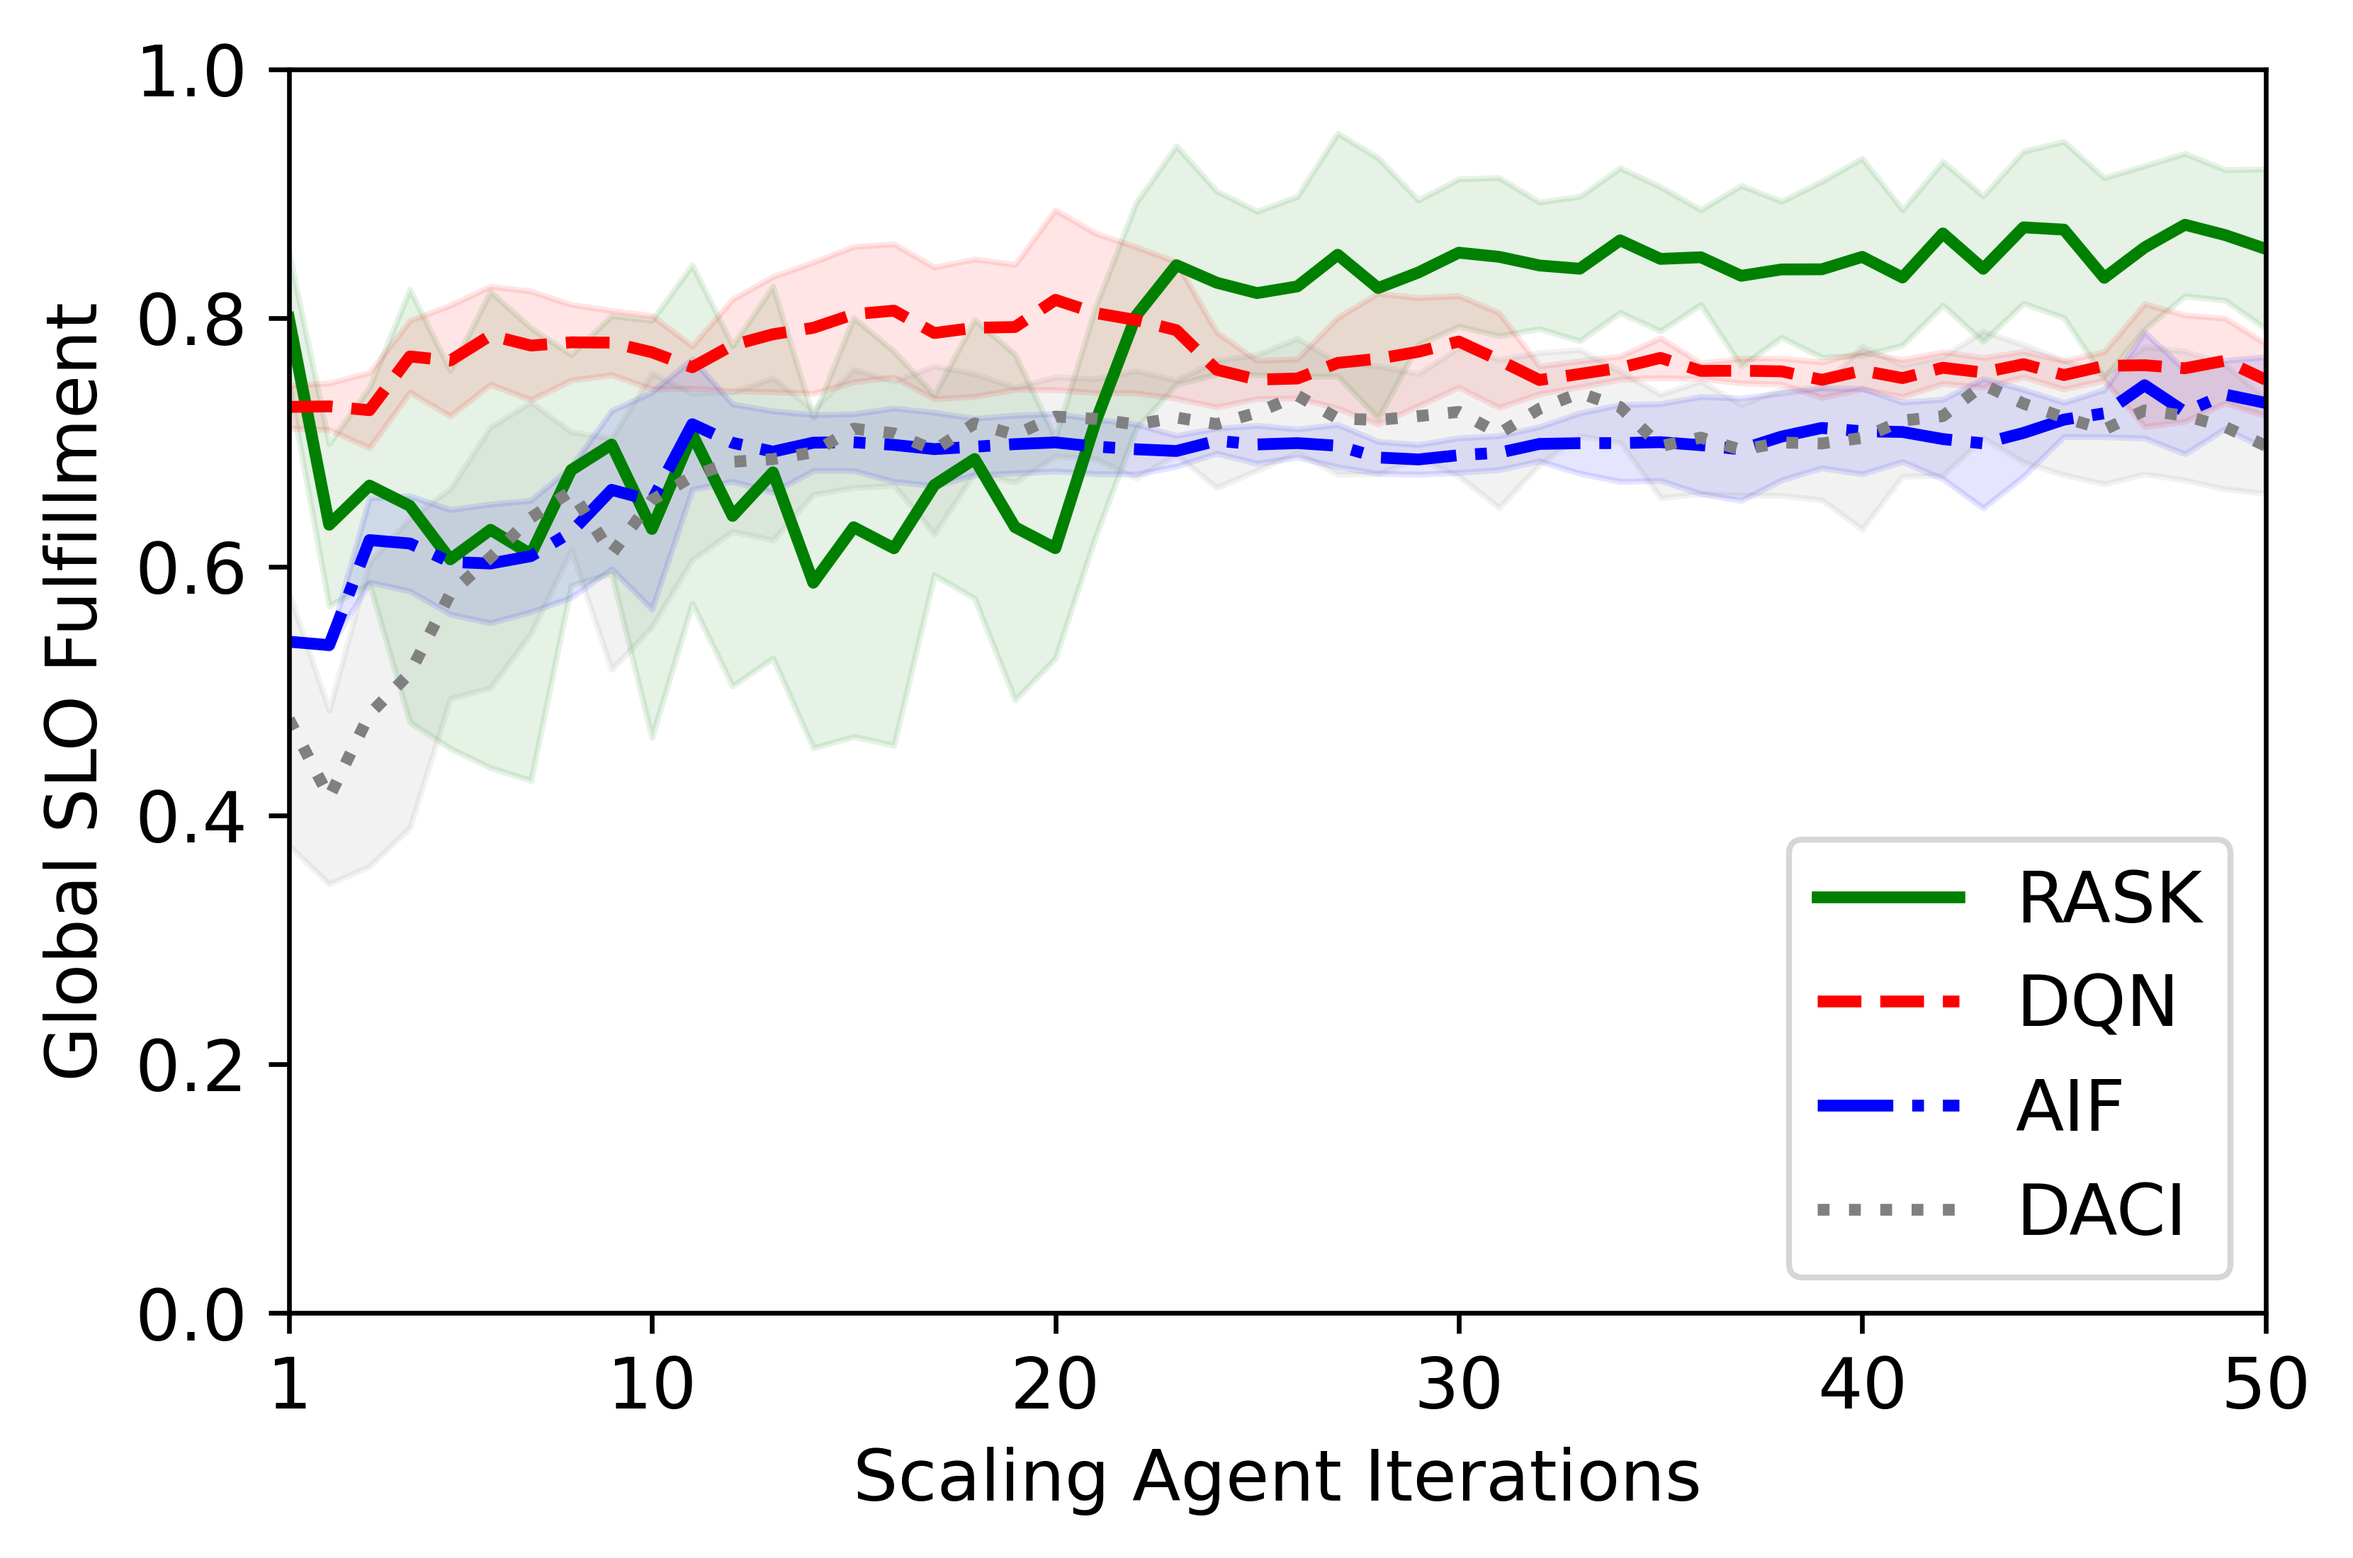
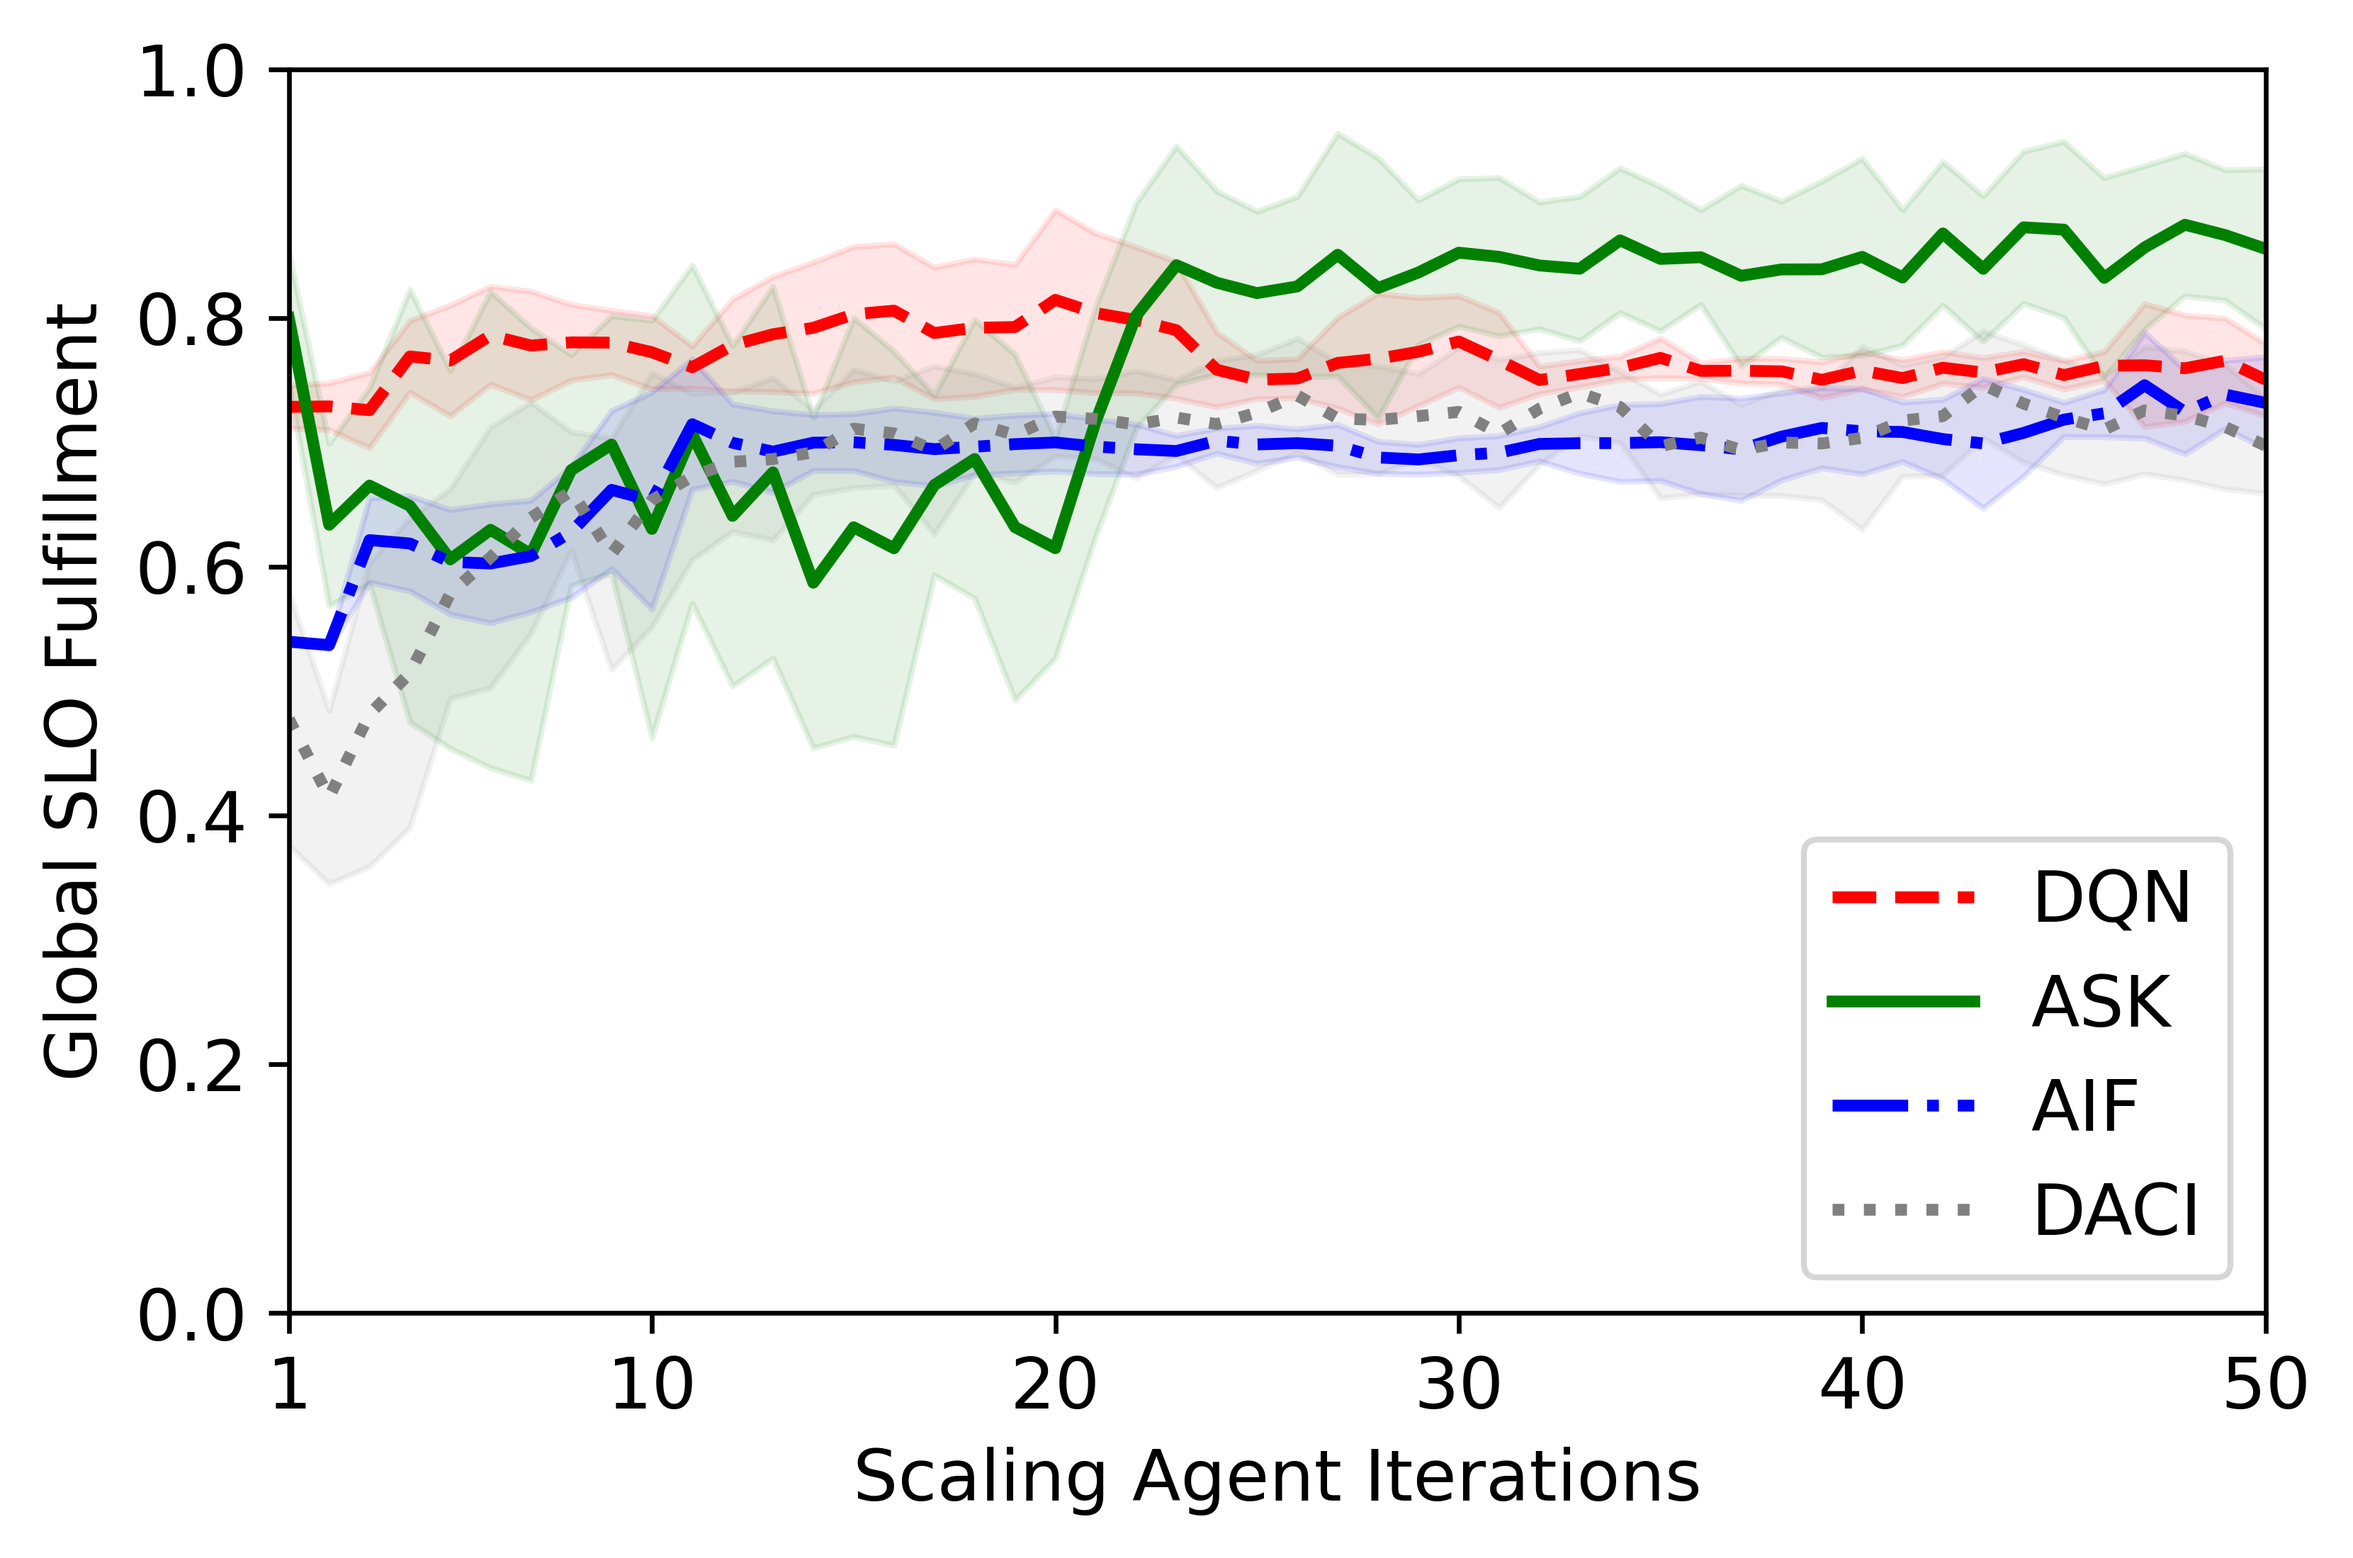
change again to ASK

Changed region(s): [[0.7444, 0.5257, 0.9304, 0.8349], [0.8064, 0.6803, 0.8374, 0.7112]]

diff --git a/experiments/iwai/B1/B2.py b/experiments/iwai/B1/B2.py
@@ -7,7 +7,7 @@ import matplotlib.pyplot as plt
 from experiments.iwai.B1.B1 import COLOR_DICT_AGENT
 
 ROOT = os.path.dirname(__file__)
-AGENT_TYPES = ["DQN", "RASK", "AIF", "DACI"]
+AGENT_TYPES = ["DQN", "ASK", "AIF", "DACI"]
 plt.rcParams.update({'font.size': 12})
 
 
@@ -24,10 +24,10 @@ def load_and_process_experience(agent_type):
         'last_iteration_length': 'sum'
     })
 
-    if agent_type != "RASK":
+    if agent_type != "ASK":
         return {agent_type: paired_df['last_iteration_length'].values}
 
-    # Special handling for RASK: split into warmup and main
+    # Special handling for ASK: split into warmup and main
     warmup, main = [], []
     for rep in paired_df['rep'].unique():
         rep_data = paired_df[paired_df['rep'] == rep]['last_iteration_length'].values
@@ -35,8 +35,8 @@ def load_and_process_experience(agent_type):
         main.extend(rep_data[40:])
 
     return {
-        "RASK (expl)": warmup,
-        "RASK (inf)": main
+        "ASK (expl)": warmup,
+        "ASK (inf)": main
     }
 
 
@@ -49,7 +49,7 @@ def main():
     # data = {agent: np.log10(values) for agent, values in data.items()}
 
     # Define plotting order
-    plot_labels = ["DQN", "RASK (expl)", "RASK (inf)", "AIF", "DACI"]
+    plot_labels = ["DQN", "ASK (expl)", "ASK (inf)", "AIF", "DACI"]
     plot_data = [data[label] for label in plot_labels]
 
     # Create the boxplot
@@ -62,7 +62,7 @@ def main():
 
     # Custom coloring
     for patch, label in zip(box['boxes'], plot_labels):
-        base_label = label.split(' ')[0]  # e.g., "RASK" from "RASK_main"
+        base_label = label.split(' ')[0]  # e.g., "ASK" from "ASK_main"
         patch.set_facecolor(COLOR_DICT_AGENT[base_label])
 
     plt.ylabel("Agent Cycle Duration (ms)")

diff --git a/experiments/iwai/B1/B1.py b/experiments/iwai/B1/B1.py
@@ -53,7 +53,7 @@ logging.getLogger('multiscale').setLevel(logging.INFO)
 
 def eval_scaling_agent(agent_factory, agent_type):
     #delete_file_if_exists(ROOT + f"/agent_experience_{agent_type}.csv")
-    if agent_type == "RASK":
+    if agent_type == "ASK":
         delete_file_if_exists(ROOT + "/../../../share/metrics/metrics.csv")
 
     print(f"Starting experiment for {agent_type} agent")
@@ -72,8 +72,8 @@ def eval_scaling_agent(agent_factory, agent_type):
 
 
 COLOR_DICT = {"elastic-workbench-qr-detector-1": "red", "elastic-workbench-cv-analyzer-1": "green"}
-COLOR_DICT_AGENT = {"DQN": "red", "RASK": "green", "AIF": "blue",  "DACI": "grey"}
-LINE_STYLE_DICT = {"DQN": "--", "RASK": "-", "AIF": "-.", "DACI": ':'}
+COLOR_DICT_AGENT = {"DQN": "red", "ASK": "green", "AIF": "blue",  "DACI": "grey"}
+LINE_STYLE_DICT = {"DQN": "--", "ASK": "-", "AIF": "-.", "DACI": ':'}
 
 
 def visualize_data(agent_types: list[str], output_file: str):
@@ -194,10 +194,10 @@ if __name__ == '__main__':
         motivate_cores=True,
         action_selection="stochastic"
     )
-    # eval_scaling_agent(agent_fact_RASK, "RASK")
+    # eval_scaling_agent(agent_fact_ASK, "ASK")
     # eval_scaling_agent(agent_fact_dqn, "DQN")
     # eval_scaling_agent(agent_fact_aif, "AIF")
     # eval_scaling_agent(agent_fact_daci, "DACI")
     # import_pymdp_logs(filenames=pymdp_files)
 
-    visualize_data(["RASK", "DQN", "AIF", "DACI"], ROOT + "/plots/slo_f.png")
+    visualize_data(["DQN", "ASK", "AIF", "DACI"], ROOT + "/plots/slo_f.png")
